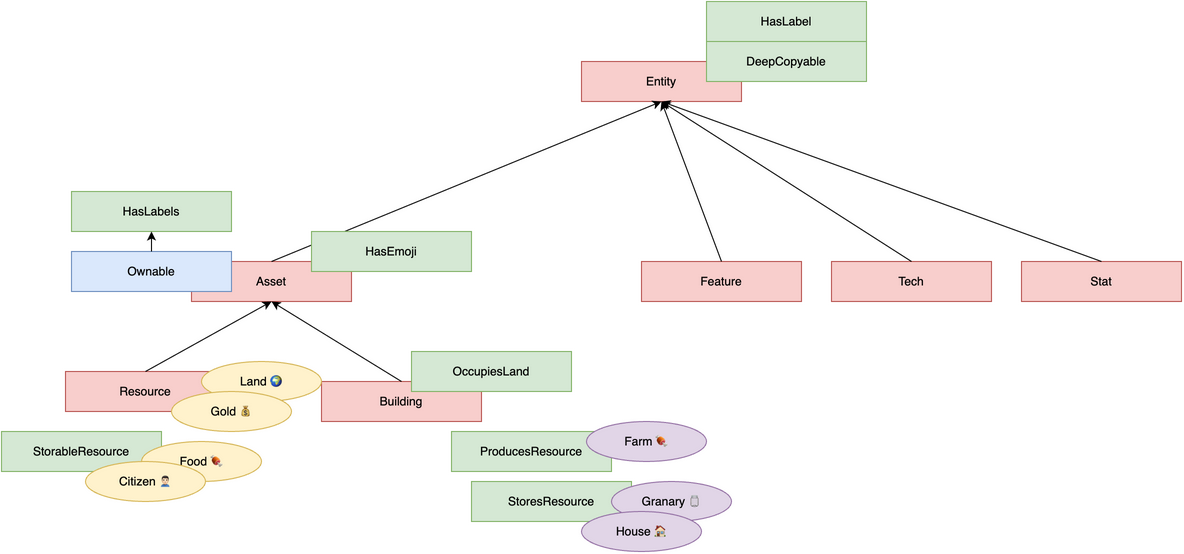
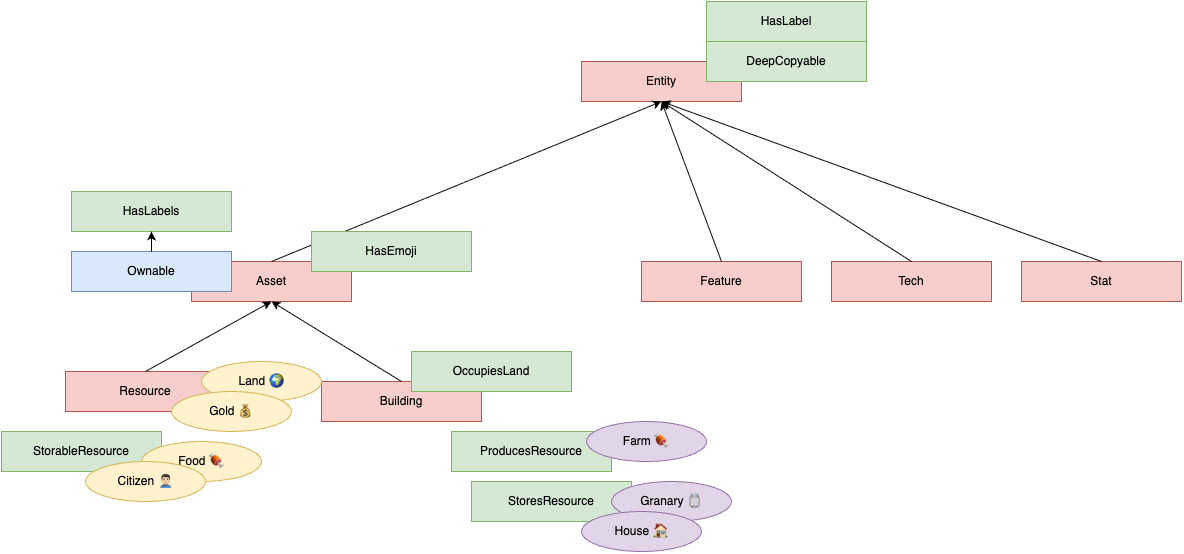
clean

diff --git a/src/main/kotlin/com/github/seepick/derbauer2/game/core/effect.kt b/src/main/kotlin/com/github/seepick/derbauer2/game/core/effect.kt
@@ -20,7 +20,7 @@ fun Entity.toEffects(): List<Effect> = buildList {
     if (entity is StoresResource) {
         add(StoresResourceEffect(entity))
     }
-    // TODO stat modifiers (theater)
+    // stat modifiers (theater)
 }
 
 fun List<Effect>.toFormattedString(): String = joinToString(", ") { effect ->
@@ -31,7 +31,8 @@ class ProducesResourceEffect<X>(val delegate: X) :
     ProducesResource by delegate, Effect, Entity by delegate
         where X : ProducesResource, X : Entity {
     override fun toFormattedString() =
-        "${delegate.produceResourceAmount.toPrefixedString()}${RESOURCE_INFO_OWNED_SEPARATOR} ${producingResourceClass.emojiHack}"
+        "${delegate.produceResourceAmount.toPrefixedString()}${RESOURCE_INFO_OWNED_SEPARATOR} " +
+                "${producingResourceClass.emojiHack}"
 }
 
 class StoresResourceEffect<X>(val delegate: X) :
@@ -43,8 +44,6 @@ class StoresResourceEffect<X>(val delegate: X) :
     override fun deepCopy() = this
 }
 
-// TODO nope... it's a design mistake, that: to get the emoji of a given resource, need `user` reference
-// to get the real instance, instead of fiddling around with kotlin KClass shizzle...
 val KClass<*>.emojiHack
     get() =
         emojiHavingOrNull ?: emojiMappedOrNull ?: error(

diff --git a/src/test/kotlin/com/github/seepick/derbauer2/game/testInfra/dsl/GivenDsl.kt b/src/test/kotlin/com/github/seepick/derbauer2/game/testInfra/dsl/GivenDsl.kt
@@ -14,7 +14,6 @@ import com.github.seepick.derbauer2.game.stat.Stat
 import com.github.seepick.derbauer2.game.testInfra.ownedForTest
 import com.github.seepick.derbauer2.game.view.WhenHomePageDsl
 import com.github.seepick.derbauer2.textengine.audio.SoundPlayer
-import io.github.oshai.kotlinlogging.KotlinLogging.logger
 import io.mockk.Runs
 import io.mockk.every
 import io.mockk.just
@@ -22,8 +21,6 @@ import org.koin.test.KoinTest
 import org.koin.test.mock.declareMock
 import kotlin.reflect.KClass
 import kotlin.reflect.full.primaryConstructor
-
-private val log = logger {}
 
 @Suppress("TestFunctionName")
 context(koin: KoinTest)

diff --git a/src/test/kotlin/com/github/seepick/derbauer2/game/building/BuildingPageTest.kt b/src/test/kotlin/com/github/seepick/derbauer2/game/building/BuildingPageTest.kt
@@ -23,8 +23,8 @@ class BuildingPageTest : PageTest, StringSpec({
             contentString shouldBeEqual """
                 ${Texts.buildPage}
                 
-                [1] Build Tent  💰 40  🌍 1 (0)
-                [2] Build Field 💰 120 🌍 4 (0)
+                [1] Build Tent  💰 40  🌍 1 (0) /+10 🙎🏻♂
+                [2] Build Field 💰 120 🌍 4 (0) +3/ 🍖
                 """.trimIndent()
         }
     }

diff --git a/src/main/kotlin/com/github/seepick/derbauer2/textengine/compose/Tooltip.kt b/src/main/kotlin/com/github/seepick/derbauer2/textengine/compose/Tooltip.kt
@@ -17,7 +17,7 @@ import androidx.compose.ui.unit.dp
 import androidx.compose.ui.unit.sp
 import com.github.seepick.derbauer2.textengine.Derbauer2Theme
 
-@Suppress("FunctionName")
+@Suppress("FunctionName", "LongMethod", "MagicNumber")
 @OptIn(ExperimentalFoundationApi::class)
 @Composable
 fun Tooltip(

diff --git a/src/main/kotlin/com/github/seepick/derbauer2/textengine/mainWindow/Toolbar.kt b/src/main/kotlin/com/github/seepick/derbauer2/textengine/mainWindow/Toolbar.kt
@@ -28,7 +28,7 @@ import org.koin.compose.koinInject
 private val log = logger {}
 
 
-@Suppress("FunctionName")
+@Suppress("FunctionName", "LongMethod")
 @Composable
 fun Toolbar(
     width: Dp,

diff --git a/TODO.md b/TODO.md
@@ -1,5 +1,7 @@
 # Todo
 
+## Todo Requirements
+
 * fugger2 get names from sources (handbook, wiki, websites)
 * reverse engineer DerBauer1
 
@@ -13,6 +15,14 @@
         * enhance existing turn step and types
 * let AI generate doc, based on code (before that, align documents with package structure)
 * create epoch milestone project plan
+
+## Howto Release
+
+1. **refactor** code
+2. run: `./bin/validate_all.sh`
+3. resolve **sonarqube** issues
+4. smoke tests: `./bin/run_distributable.sh`
+5. execute github [auto-release](https://github.com/seepick/derbauer2/actions/workflows/release.yml)
 
 # Versions
 
@@ -28,55 +38,11 @@
 * 🤖 Use @OptIn annotation for "secret API"
 * 🤖 version check plugin manes: compose macos 1.9.0 gets through and warned about; disable check
 
-## Pre Release Steps
+## Unsorted
 
-1. **refactor** code
-2. run: `./bin/validate_all.sh`
-3. resolve **sonarqube** issues
-4. smoke tests: `./bin/run_distributable.sh`
-5. execute github [auto-release](https://github.com/seepick/derbauer2/actions/workflows/release.yml)
-
-## 1.4.0
-
-1. 🖋 display each tech what it enables (dynamically calculated)
-2. 🖋
-3. 🖋
-4. 🖋
-5. 🤖
-6. 🤖
-7. 🎨
-8. [ ] 
-9. [ ] 
-
-## 1.5.0
-
-1. 🖋
-2. 🖋
-3. 🖋
-4. 🖋
-5. 🤖
-6. 🤖
-7. 🎨
-8. [ ] 
-9. [ ] 
-
-## 1.6.0
-
-1. 🖋
-2. 🖋
-3. 🖋
-4. 🖋
-5. 🤖
-6. 🤖
-7. 🎨
-8. [ ] 
-9. [ ] 
-
-## 2.0.0
-
+* 🖋 display each tech what it enables (dynamically calculated)
+* 🤖 ad classpath scanning: ignore all from src/test/kotlin (instead relying on annotation)
+* 🤖 ad KClass<*>.emojiHack: a design mistake, that: to get the emoji of a given resource, need `user` reference
+    * to get the real instance, instead of fiddling around with kotlin KClass shizzle...
 * 🤖 macos signed app (suppress security warning)
 * 🤖 verify runs smoothly on win/linux as well
-
-# Unsorted
-
-* 🤖 ad classpath scanning: ignore all from src/test/kotlin (instead relying on annotation)
